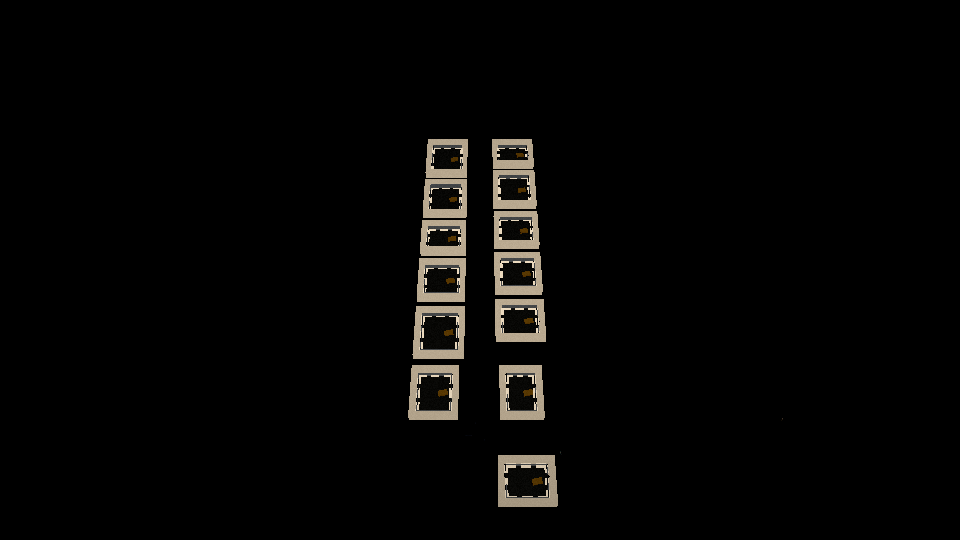
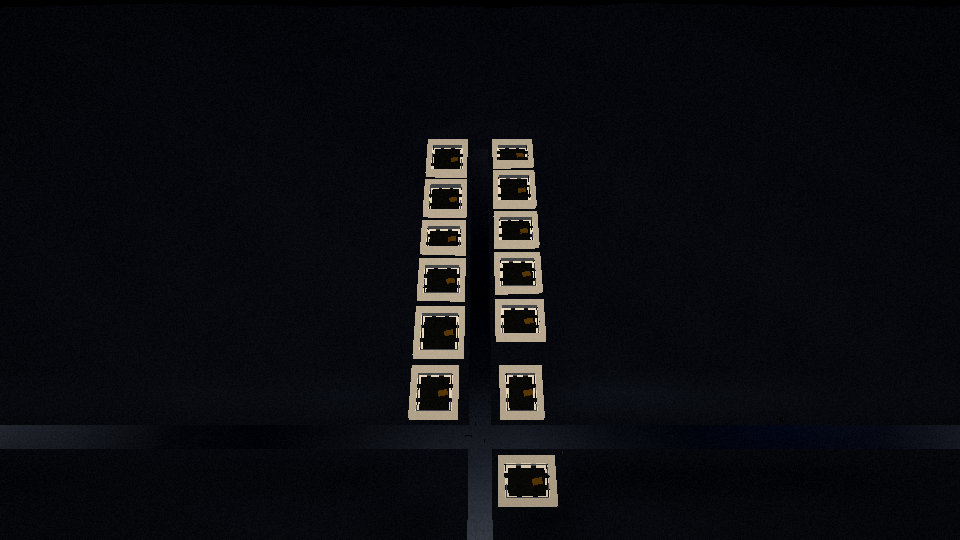
M5.T3c (M5-1): a dragged road is drawn, on drawn ground
Task M5.T3c, filled by opencode-go/deepseek-v4.1-flash and checked by scripts/crew.mjs: task checks green, draws 125.

Changed region(s): [[0.4062, 0.7407, 0.625, 1.0], [0.0, 0.7704, 0.125, 0.8296], [0.9375, 0.7704, 1.0, 0.8296]]

diff --git a/src/render/landscape.js b/src/render/landscape.js
@@ -12,13 +12,21 @@ import { planLayout, CROSSING_BAND, BUILD_LINE } from '../sim/layout.js';
 import { vistasOf } from '../sim/vistas.js';
 import { worldMap } from '../sim/patrol.js';
 
+// The ground of a map, live: the map's own terrain when it has one (a generated
+// map's, rebuilt from its graph after every road op), the load-time world's
+// otherwise. All the meshes here read the same one, so the ground a road is
+// laid on is the ground they follow (M5.T3c).
+export function terrainOf(map = worldMap()) {
+  return map.terrain?.heightAt ?? heightAt;
+}
+
 // Lift every vertex of an already-positioned geometry onto the field. A slab's
 // top and bottom move together, so its thickness and its vertical sides survive
 // and no face cracks open.
-export function displaceToTerrain(geo) {
+export function displaceToTerrain(geo, heightOf = terrainOf()) {
   const pos = geo.attributes.position;
   for (let i = 0; i < pos.count; i++) {
-    pos.setY(i, pos.getY(i) + heightAt(pos.getX(i), pos.getZ(i)));
+    pos.setY(i, pos.getY(i) + heightOf(pos.getX(i), pos.getZ(i)));
   }
   pos.needsUpdate = true;
   geo.computeVertexNormals();
@@ -98,6 +106,88 @@ function grassOf(map) {
   return grassFor(map.district, planLayout(map.district, map.seed, pinned), vistasOf(map));
 }
 
+// The ground a player can build on (M5.T3c): the map's own build box, drawn as
+// one mesh outside the fixed 700 m base plane (block.js). A generated town's
+// graph spans kilometres, so without this its outer roads and lots stand over
+// void. The frame keeps the base plane's own 4 m lattice so the two surfaces
+// meet exactly, and it is displaced by the live map terrain, which flattens
+// under every road and parcel pad — so tarmac and lots meet the ground.
+const BASE_PLANE_HALF = 350;  // block.js GROUND_EXTENT / 2 — keep in step
+const GROUND_STEP = 4;        // matches GROUND_CELL in block.js
+const GROUND_SINK = 0.08;     // the base plane's own drop (block.js)
+const GROUND_LATTICE = 2;     // the 700 m plane's vertices sit on 2 (mod 4)
+const GROUND_HEX = 0x14171c;  // the base plane's colour, so the two read as one
+
+// The nearest lattice line at or under `v`, and at or over it.
+const latticeLo = (v) => Math.floor((v - GROUND_LATTICE) / GROUND_STEP) * GROUND_STEP + GROUND_LATTICE;
+const latticeHi = (v) => Math.ceil((v - GROUND_LATTICE) / GROUND_STEP) * GROUND_STEP + GROUND_LATTICE;
+
+// The frame as up to four strips around the square the base plane covers.
+function frameRects(bounds) {
+  const x0 = latticeLo(bounds.minX), x1 = latticeHi(bounds.maxX);
+  const z0 = latticeLo(bounds.minZ), z1 = latticeHi(bounds.maxZ);
+  const hx0 = Math.max(x0, -BASE_PLANE_HALF), hx1 = Math.min(x1, BASE_PLANE_HALF);
+  const hz0 = Math.max(z0, -BASE_PLANE_HALF), hz1 = Math.min(z1, BASE_PLANE_HALF);
+  if (hx1 <= hx0 || hz1 <= hz0) return [[x0, x1, z0, z1]];
+  const rects = [];
+  if (z0 < hz0) rects.push([x0, x1, z0, hz0]);
+  if (z1 > hz1) rects.push([x0, x1, hz1, z1]);
+  if (x0 < hx0) rects.push([x0, hx0, hz0, hz1]);
+  if (x1 > hx1) rects.push([hx1, x1, hz0, hz1]);
+  return rects;
+}
+
+function buildGroundFrame(map) {
+  if (!map.bounds) return null;
+  const geos = frameRects(map.bounds).map(([x0, x1, z0, z1]) => {
+    const w = x1 - x0;
+    const d = z1 - z0;
+    const g = new THREE.PlaneGeometry(w, d, Math.round(w / GROUND_STEP), Math.round(d / GROUND_STEP));
+    g.rotateX(-Math.PI / 2);
+    g.translate((x0 + x1) / 2, 0, (z0 + z1) / 2);
+    return g;
+  });
+  const mesh = new THREE.Mesh(displaceToTerrain(mergeGeometries(geos), terrainOf(map)),
+    new THREE.MeshStandardMaterial({ color: GROUND_HEX, roughness: 1, metalness: 0 }));
+  mesh.name = 'build ground';
+  mesh.position.y = -GROUND_SINK;
+  mesh.receiveShadow = true;
+  return mesh;
+}
+
+// The frame's vertex grid is fixed once its bounds are: a road op changes the
+// ground under it, not the grid. A refresh reads the terrain Ys again only when
+// the graph's counts changed, so zoning and bulldozing never re-displace it;
+// bounds that moved get the geometry rebuilt, because a drag may leave the box
+// the frame was first cut for.
+let groundRig = null;
+
+const sameBounds = (a, b) => a && b && a.minX === b.minX && a.maxX === b.maxX
+  && a.minZ === b.minZ && a.maxZ === b.maxZ;
+
+export function refreshBuildGround(map = worldMap()) {
+  if (!groundRig || groundRig.map !== map || !map.graph) return;
+  const nodes = map.graph.nodes.length;
+  const edges = map.graph.edges.length;
+  if (nodes === groundRig.nodes && edges === groundRig.edges && sameBounds(map.bounds, groundRig.bounds)) return;
+  if (!sameBounds(map.bounds, groundRig.bounds)) {
+    const next = buildGroundFrame(map);
+    if (!next) return;
+    groundRig.mesh.geometry.dispose();
+    groundRig.mesh.geometry = next.geometry;
+    groundRig.bounds = { ...map.bounds };
+  } else {
+    const pos = groundRig.mesh.geometry.attributes.position;
+    const heightOf = terrainOf(map);
+    for (let i = 0; i < pos.count; i++) pos.setY(i, heightOf(pos.getX(i), pos.getZ(i)));
+    pos.needsUpdate = true;
+    groundRig.mesh.geometry.computeVertexNormals();
+    groundRig.mesh.geometry.computeBoundingSphere();
+  }
+  groundRig.nodes = nodes;
+  groundRig.edges = edges;
+}
+
 export function buildGrassGround(map = worldMap()) {
   const grass = grassOf(map);
   const mat = new THREE.MeshStandardMaterial({ color: 0x1c3020, roughness: 1.0, envMapIntensity: 0.2 });
@@ -111,7 +201,15 @@ export function buildGrassGround(map = worldMap()) {
   for (const s of grass.slabs) slab(s.w, s.d, s.x, s.z);
   const mesh = new THREE.Mesh(displaceToTerrain(mergeGeometries(geos)), mat);
   mesh.receiveShadow = true;
-  return mesh;
+  const frame = buildGroundFrame(map);
+  if (!frame) return mesh;
+  groundRig = {
+    mesh: frame, map, bounds: { ...map.bounds },
+    nodes: map.graph.nodes.length, edges: map.graph.edges.length,
+  };
+  const group = new THREE.Group();
+  group.add(mesh, frame);
+  return group;
 }
 
 function bladeTexture() {

diff --git a/src/sim/terrain.js b/src/sim/terrain.js
@@ -44,6 +44,10 @@ const ROAD_FLAT_HALF = ROAD_HALF_WIDTH + AVENUE_WALKWAY + FLAT_MARGIN;
 // — 1 in 5. Past it a foundation wants the cut-and-fill this game does not
 // model, so placement refuses. M4.T5 is the first caller.
 export const MAX_BUILD_GRADIENT = 0.2;
+// A road grades its own corridor flat (graphFlatRects), so it may climb ground
+// a foundation may not. The relief's own worst slope is ~0.33 m/m (M4.T6's
+// hills), so a drag refuses only a cliff, not a hill (M5.T3c).
+export const MAX_ROAD_GRADIENT = 0.4;
 // The step central differences read the field over, the same scale render/
 // outskirts.js measures its normals over: 2 m is small enough that a 15 m verge
 // is a slope and not one number.
@@ -153,6 +157,52 @@ function holdFlat(rects, blend, x, z) {
   return held;
 }
 
+// A generated town's flat set is one rect per road edge and one per node, and
+// the ground mesh asks heightAt for every vertex. A 64 m bucket grid keeps a
+// lookup to the handful of rects that could reach it: FLAT_BLEND (11 m) is
+// well under the bucket, so the 3x3 neighbourhood around a point is exhaustive.
+const FLAT_CELL = 64;
+const FLAT_KEY = 0x8000; // shifts negative buckets into one integer key
+
+function flatBuckets(rects) {
+  const index = new Map();
+  for (const r of rects) {
+    const x0 = Math.floor((r[0] - r[2]) / FLAT_CELL);
+    const x1 = Math.floor((r[0] + r[2]) / FLAT_CELL);
+    const z0 = Math.floor((r[1] - r[3]) / FLAT_CELL);
+    const z1 = Math.floor((r[1] + r[3]) / FLAT_CELL);
+    for (let ix = x0; ix <= x1; ix++) {
+      for (let iz = z0; iz <= z1; iz++) {
+        const key = (ix + FLAT_KEY) * 0x10000 + (iz + FLAT_KEY);
+        const bucket = index.get(key);
+        if (bucket) bucket.push(r);
+        else index.set(key, [r]);
+      }
+    }
+  }
+  return index;
+}
+
+// holdFlat over a bucketed set. A small set keeps the plain scan: the world's
+// own hand terrain has a dozen rects and no lookup beats a dozen compares.
+function holdFlatIndexed(index, rects, blend, x, z) {
+  if (rects.length <= 16) return holdFlat(rects, blend, x, z);
+  const ix = Math.floor(x / FLAT_CELL);
+  const iz = Math.floor(z / FLAT_CELL);
+  let held = 0;
+  for (let dx = -1; dx <= 1; dx++) {
+    for (let dz = -1; dz <= 1; dz++) {
+      const bucket = index.get((ix + dx + FLAT_KEY) * 0x10000 + (iz + dz + FLAT_KEY));
+      if (!bucket) continue;
+      for (const r of bucket) {
+        held = Math.max(held, 1 - smoothstep01(rectDistance(x, z, r[0], r[1], r[2], r[3]) / blend));
+        if (held >= 1) return 1;
+      }
+    }
+  }
+  return held;
+}
+
 function wildness(x, z) {
   return smoothstep01(rectDistance(x, z, ...DISTRICT_RELIEF) / WILD_BLEND);
 }
@@ -191,14 +241,16 @@ export function createTerrain(map) {
     ?? (map.graph ? graphFlatRects(map.graph) : roadFlatRects(map.district));
   const pads = padRects(map);
   const water = map.water ?? [];
+  const flatIndex = flatBuckets(flats);
+  const padIndex = flatBuckets(pads);
 
   const heightAt = (x, z) => {
-    const open = 1 - holdFlat(flats, FLAT_BLEND, x, z);
+    const open = 1 - holdFlatIndexed(flatIndex, flats, FLAT_BLEND, x, z);
     // On the tarmac the answer is exactly zero, and a mover asks here often.
     if (open === 0) return 0;
     const swell = VERGE_RISE * band01(SWELL_WAVES, x, z);
     const hills = HILL_RISE * band01(HILL_WAVES, x, z);
-    const tuck = pads.length ? holdFlat(pads, FLAT_BLEND, x, z) : 0;
+    const tuck = pads.length ? holdFlatIndexed(padIndex, pads, FLAT_BLEND, x, z) : 0;
     return open * (swell + hills * wildness(x, z) * (1 - tuck));
   };
 

diff --git a/src/render/roads.js b/src/render/roads.js
@@ -8,6 +8,7 @@ import { WORLD_FURNITURE, rhythm } from '../sim/furniture.js';
 import { worldMap } from '../sim/patrol.js';
 import { loadPBRMaps, standardFromMaps } from './materials.js';
 import { buildInstancePools } from './buildings.js';
+import { refreshBuildGround } from './landscape.js';
 
 export const WALK_RISE = 0.24;
 const PLAZA_WALK_WIDTH = 2.4;  // narrower footways flanking the plaza's 104 m
@@ -43,21 +44,28 @@ function endTrim(way, node) {
 
 // A carriageway quad per edge, cut where a junction meets it, plus one square
 // per junction: the old full-span merges overlapped in every junction square,
-// edge-plus-junction tiles the same tarmac exactly once.
+// edge-plus-junction tiles the same tarmac exactly once. Every edge the graph
+// holds is drawn, whatever way laid it, so the road a player drags (M5.T3c)
+// appears the same frame its version change reaches the pools; a node with two
+// edges or more is a junction and trims them back, a dangling end keeps its
+// full half-width.
 function carriagewayPieces(map, nodes) {
-  const ways = new Map();
-  for (const w of [...map.district.avenues, ...map.district.crossings]) ways.set(w.id, w);
+  const degree = new Map();
+  for (const e of map.graph.edges) {
+    degree.set(e.a, (degree.get(e.a) ?? 0) + 1);
+    degree.set(e.b, (degree.get(e.b) ?? 0) + 1);
+  }
   const out = [];
   const junctionIds = new Set();
+  const trim = (id) => ((degree.get(id) ?? 0) > 1 ? ROAD_HALF : 0);
   for (const e of map.graph.edges) {
     const a = nodes.get(e.a);
     const b = nodes.get(e.b);
-    const way = ways.get(e.way);
-    if (!a || !b || !way) continue;
+    if (!a || !b) continue;
     const vertical = a.x === b.x;
     const raw = vertical ? b.z - a.z : b.x - a.x;
-    const t0 = endTrim(way, a);
-    const t1 = endTrim(way, b);
+    const t0 = trim(e.a);
+    const t1 = trim(e.b);
     if (t0 > 0) junctionIds.add(e.a);
     if (t1 > 0) junctionIds.add(e.b);
     const span = Math.abs(raw) - t0 - t1;
@@ -280,6 +288,7 @@ export function buildRoads(texLoader, maxAniso, map = worldMap(), extrasOf = () 
     kerbs.update(p.kerbs);
     markings.update(p.markings);
     manholes.update(p.manholes);
+    refreshBuildGround(next);
   };
   return {
     group,

diff --git a/src/sim/ops.js b/src/sim/ops.js
@@ -16,6 +16,7 @@ import {
   markDirty, projectOnSegment,
 } from './map.js';
 import { BUILD_LINE, ROW_DEPTH_MAX, planNewFrontage } from './layout.js';
+import { createTerrain } from './terrain.js';
 
 // A placed building is sized from its footprint with the rule the city rolls
 // for a lot (zoning.js makeParcel): three storeys at the least, slender enough
@@ -397,10 +398,15 @@ function roadEdit(map, box, change) {
   const buildingsBefore = map.buildings ? map.buildings.slice() : null;
   const driveBefore = map.bounds && map.district ? { ...map.district.drive } : null;
   const boundsBefore = map.bounds ? { ...map.bounds } : null;
+  const terrainBefore = map.terrain ?? null;
   change();
   const byId = new Map(map.graph.nodes.map((n) => [n.id, n]));
   const kept = replanFrontage(map, box, byId);
   const touched = reconcileFrontage(map, box, byId, kept);
+  // The road grades its own corridor and its new lots' pads (M5.T3c): the
+  // terrain is derived from the graph and the parcels, so a new road that
+  // leaves the old flats gets ground of its own instead of standing over hills.
+  if (terrainBefore && map.graph) map.terrain = createTerrain(map);
   // A road op settles the drivable box on the graph it leaves (M5.T3b): the car
   // is clamped to the exact box of the roads, so a road that leaves the old box
   // hands the car its whole length, and the city view pans the build margin.
@@ -437,6 +443,7 @@ function roadEdit(map, box, change) {
     }
     if (driveBefore) Object.assign(map.district.drive, driveBefore);
     if (boundsBefore) Object.assign(map.bounds, boundsBefore);
+    if (terrainBefore) map.terrain = terrainBefore;
     map.version = version;
     markDirty(map, box);
   };

diff --git a/src/sim/cityview.js b/src/sim/cityview.js
@@ -13,7 +13,7 @@ import { STAGE, builtHeight, zoneParcel } from './zoning.js';
 import { worldMap } from './patrol.js';
 import { frontageRoad, nodeAt } from './map.js';
 import { addRoad, bulldoze, removeRoad } from './ops.js';
-import { MAX_BUILD_GRADIENT } from './terrain.js';
+import { MAX_ROAD_GRADIENT } from './terrain.js';
 import { ROAD_HALF_WIDTH } from './world.js';
 
 // Seconds for the whole rise, and for the whole descent.
@@ -356,7 +356,8 @@ function roadBand(from, to, axis) {
 
 const overlaps = (b, x0, x1, z0, z1) => b.minX < x1 && b.maxX > x0 && b.minZ < z1 && b.maxZ > z0;
 
-// Is the ground under the drag steeper than the ground places buildings by?
+// Is the ground under the drag steeper than a road may climb? A road grades its
+// own corridor, so it takes the hills M4.T6 laid down; only a cliff refuses.
 function roadTooSteep(map, from, to) {
   const heightAt = map.terrain?.heightAt;
   if (!heightAt) return false;
@@ -366,7 +367,7 @@ function roadTooSteep(map, from, to) {
   for (let i = 1; i <= steps; i++) {
     const t = i / steps;
     const h = heightAt(from.x + (to.x - from.x) * t, from.z + (to.z - from.z) * t);
-    if (Math.abs(h - prev) > MAX_BUILD_GRADIENT * (len / steps)) return true;
+    if (Math.abs(h - prev) > MAX_ROAD_GRADIENT * (len / steps)) return true;
     prev = h;
   }
   return false;
